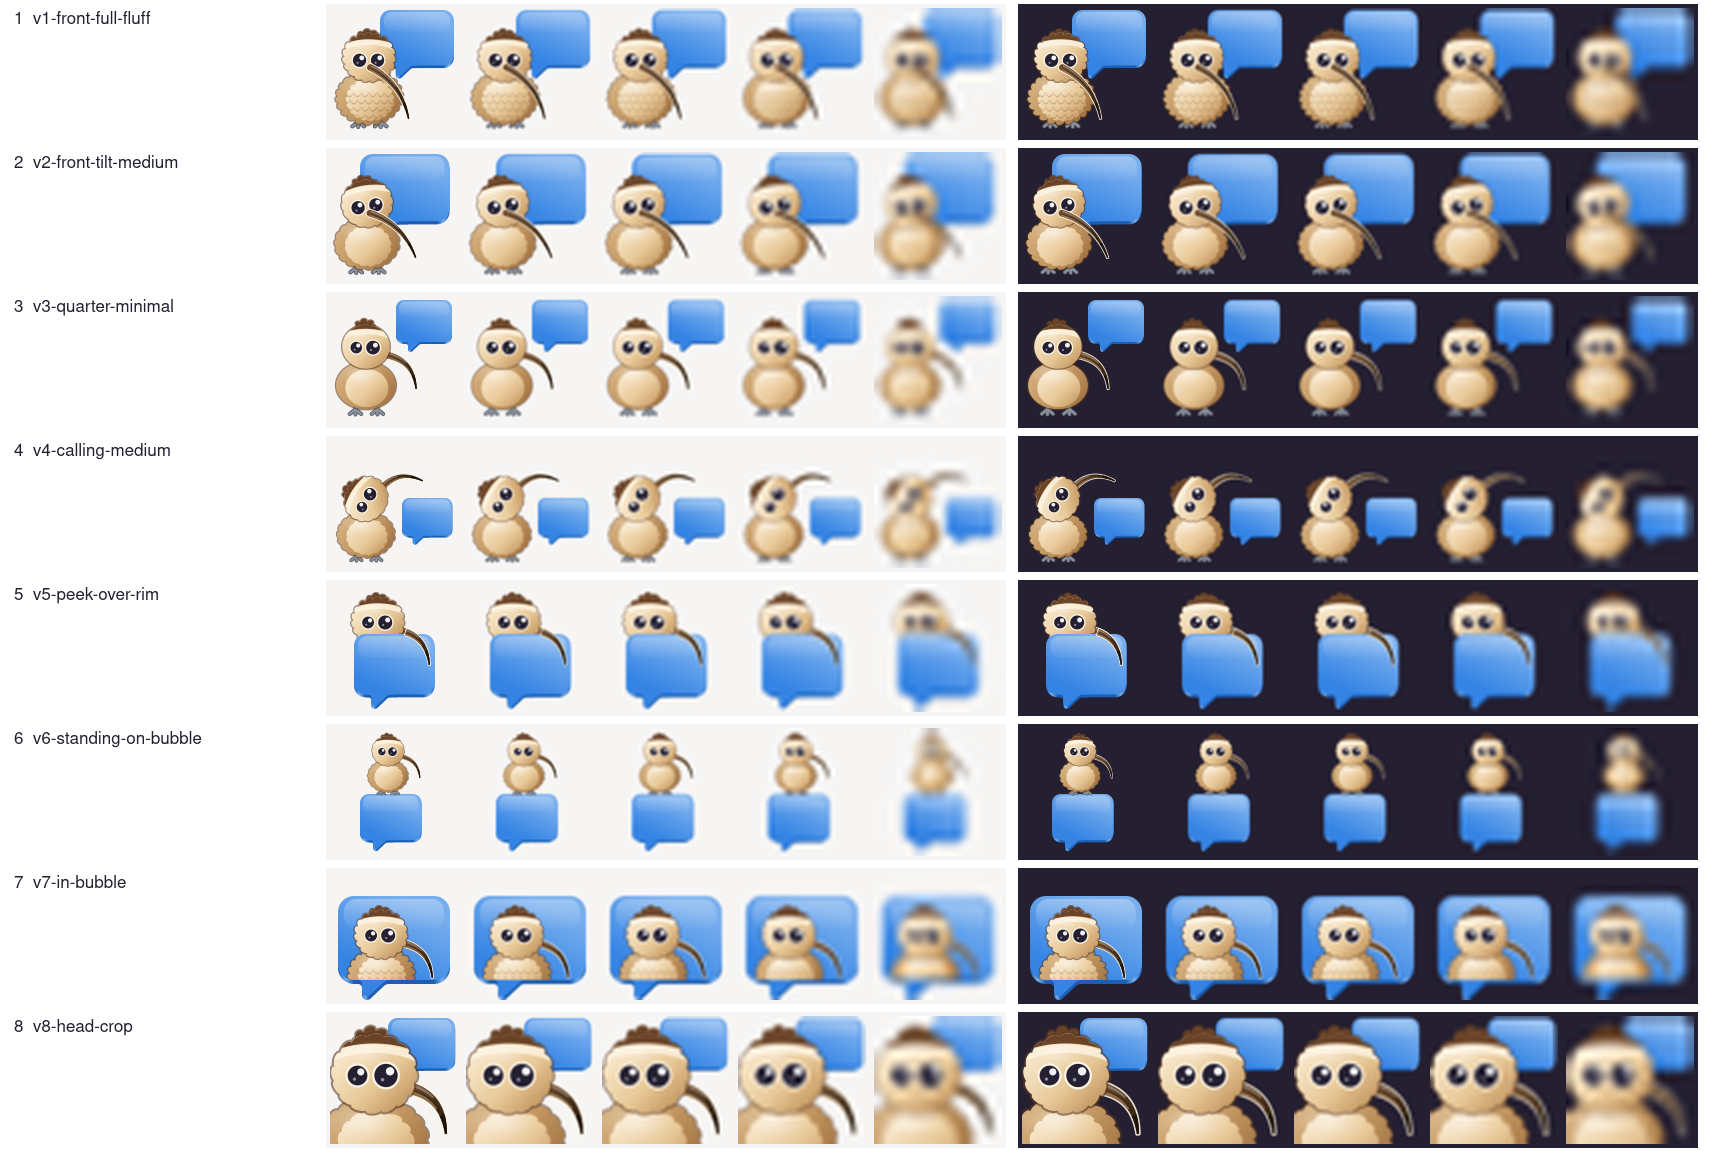
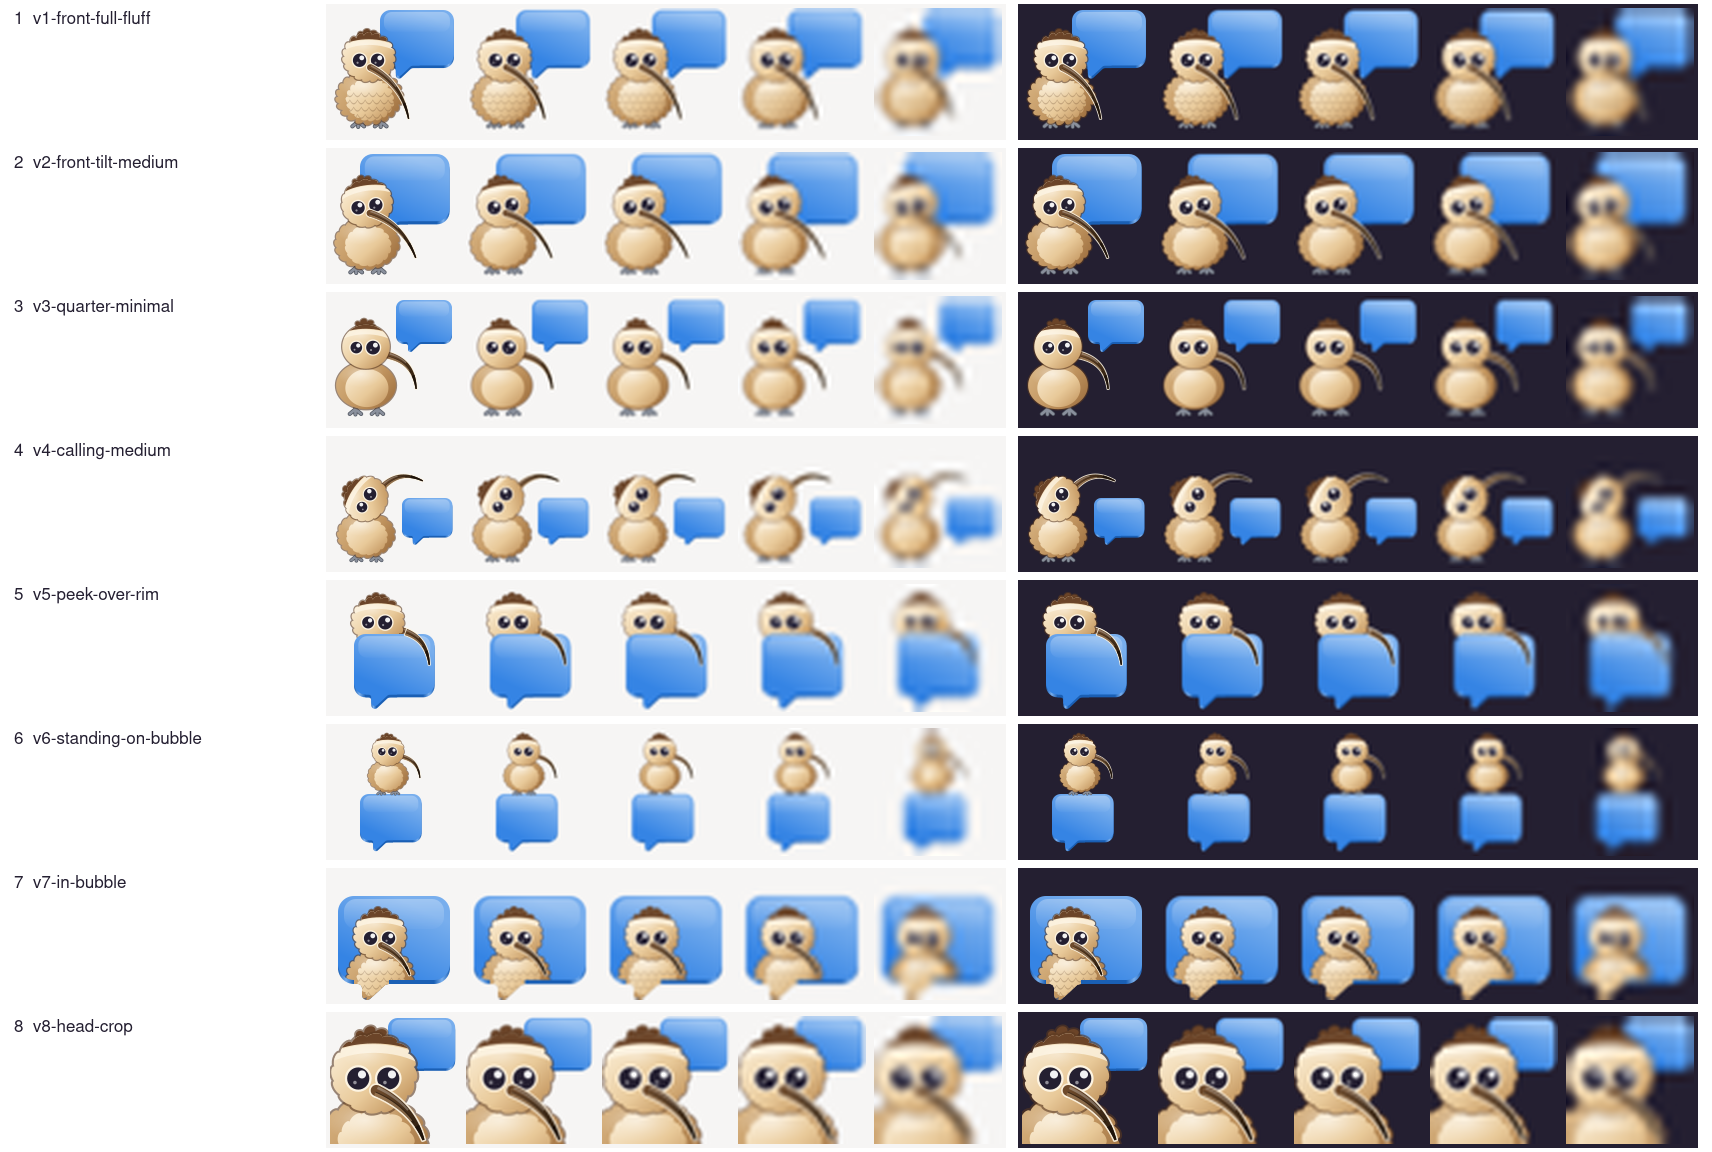
docs(design): fix round 7 v7 and v8

diff --git a/docs/design/app-icon/round7/build7.py b/docs/design/app-icon/round7/build7.py
@@ -429,18 +429,28 @@ write("v6-standing-on-bubble",
 measure("v6-standing-on-bubble", bill, 0.56)
 
 # =========================================================================================== v7
-d, body, head, bill = bird("quarter", level=2, feet=False)
+d, body, head, bill = bird("front", level=2, feet=False,
+                           bill_ctrl=[(51.5, 55), (65, 61), (77, 71), (83, 88)])
 bd, bg = bubble(1.0, 8, 24)
+# The belly runs on into the bubble's tail: the body is clipped to the face and the tail together.
+# One path, not two shapes in the clipPath: renderers disagree on how those combine.
+bd += ('    <clipPath id="belly-clip"><path d="M24 24 H104 C112.835938 24 120 31.164062 120 40 V92 '
+       'C120 100.835938 112.835938 108 104 108 H58.824219 V112 '
+       'C57.011719 112 55.265625 112.691406 53.941406 113.933594 L40.417969 126.640625 '
+       'C38.964844 128.003906 36.839844 128.375 35.011719 127.585938 '
+       'C33.183594 126.792969 32 124.992188 32 123 V116 C32 113.789062 30.210938 112 28 112 '
+       'H24 V108 C15.164062 108 8 100.835938 8 92 V40 C8 31.164062 15.164062 24 24 24 Z"/>'
+       '</clipPath>\n')
 write("v7-in-bubble",
       "V7 -- the bubble is the icon: the shared Fractal/Flare shape at full size in blue, the\n"
-      "fluffed chick inside it, its body clipped at the bubble's lower edge, the bill across\n"
-      "the face of the bubble.",
-      d + bd, bg + place(body, 0.9, 6, 23, clip="face-clip") + place(head, 0.9, 6, 23))
+      "fluffed chick inside it with two equal eyes and the bill in front of the face. The body\n"
+      "is clipped to the bubble's face and its tail together, so the belly fills the tail.",
+      d + bd, bg + place(body, 0.9, 5, 24, clip="belly-clip") + place(head, 0.9, 5, 24))
 measure("v7-in-bubble", bill, 0.9)
 
 # =========================================================================================== v8
-d, body, head, bill = bird("quarter", level=1, feet=False,
-                           bill_ctrl=[(60, 51), (82, 53), (96, 60), (98, 84)], w_base=8.8)
+d, body, head, bill = bird("front", level=1, feet=False,
+                           bill_ctrl=[(51.5, 55), (65, 61), (77, 71), (83, 88)])
 bd, bg = bubble(0.6, 58, 2)
 write("v8-head-crop",
       "V8 -- head and fluff only, for 32 and 16 px: the head fills the tile, the chest runs off\n"
